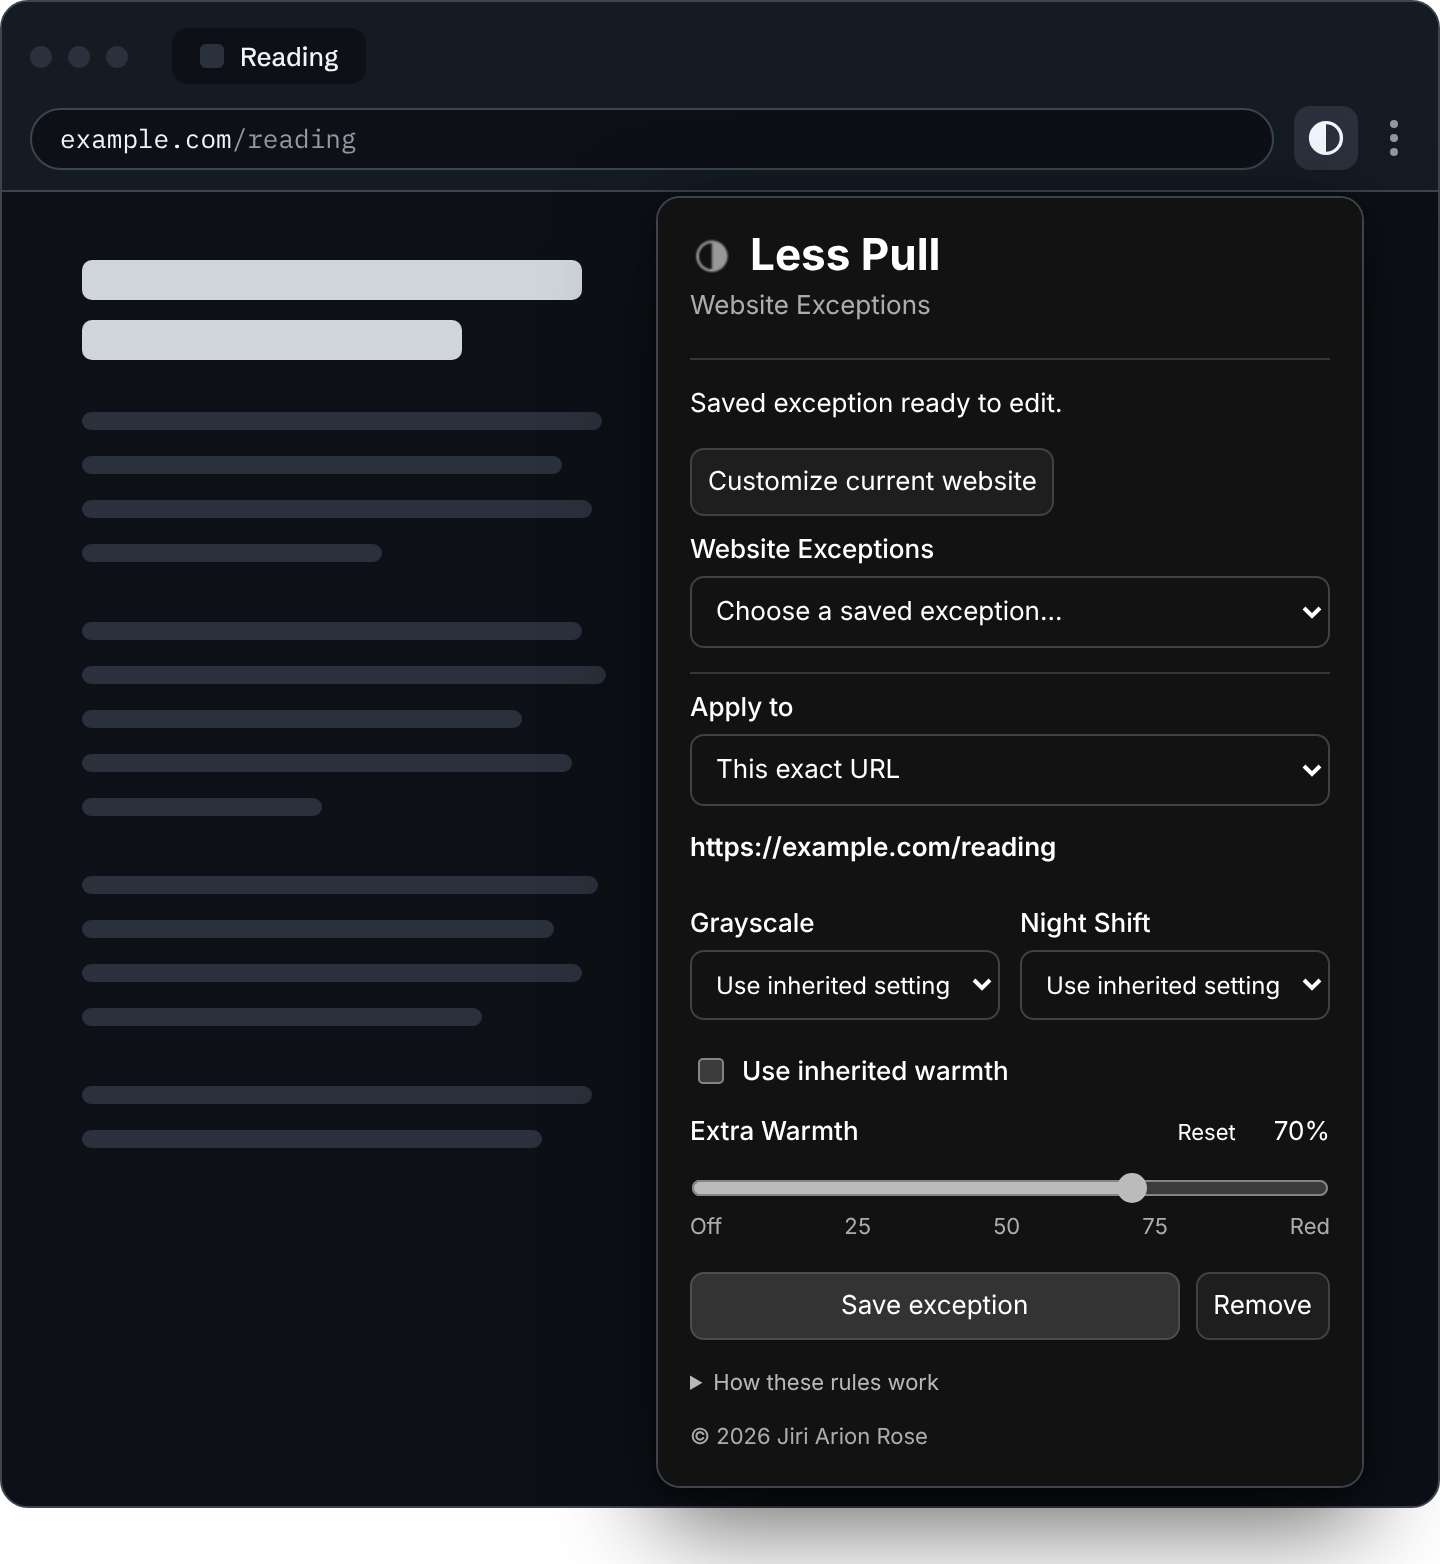
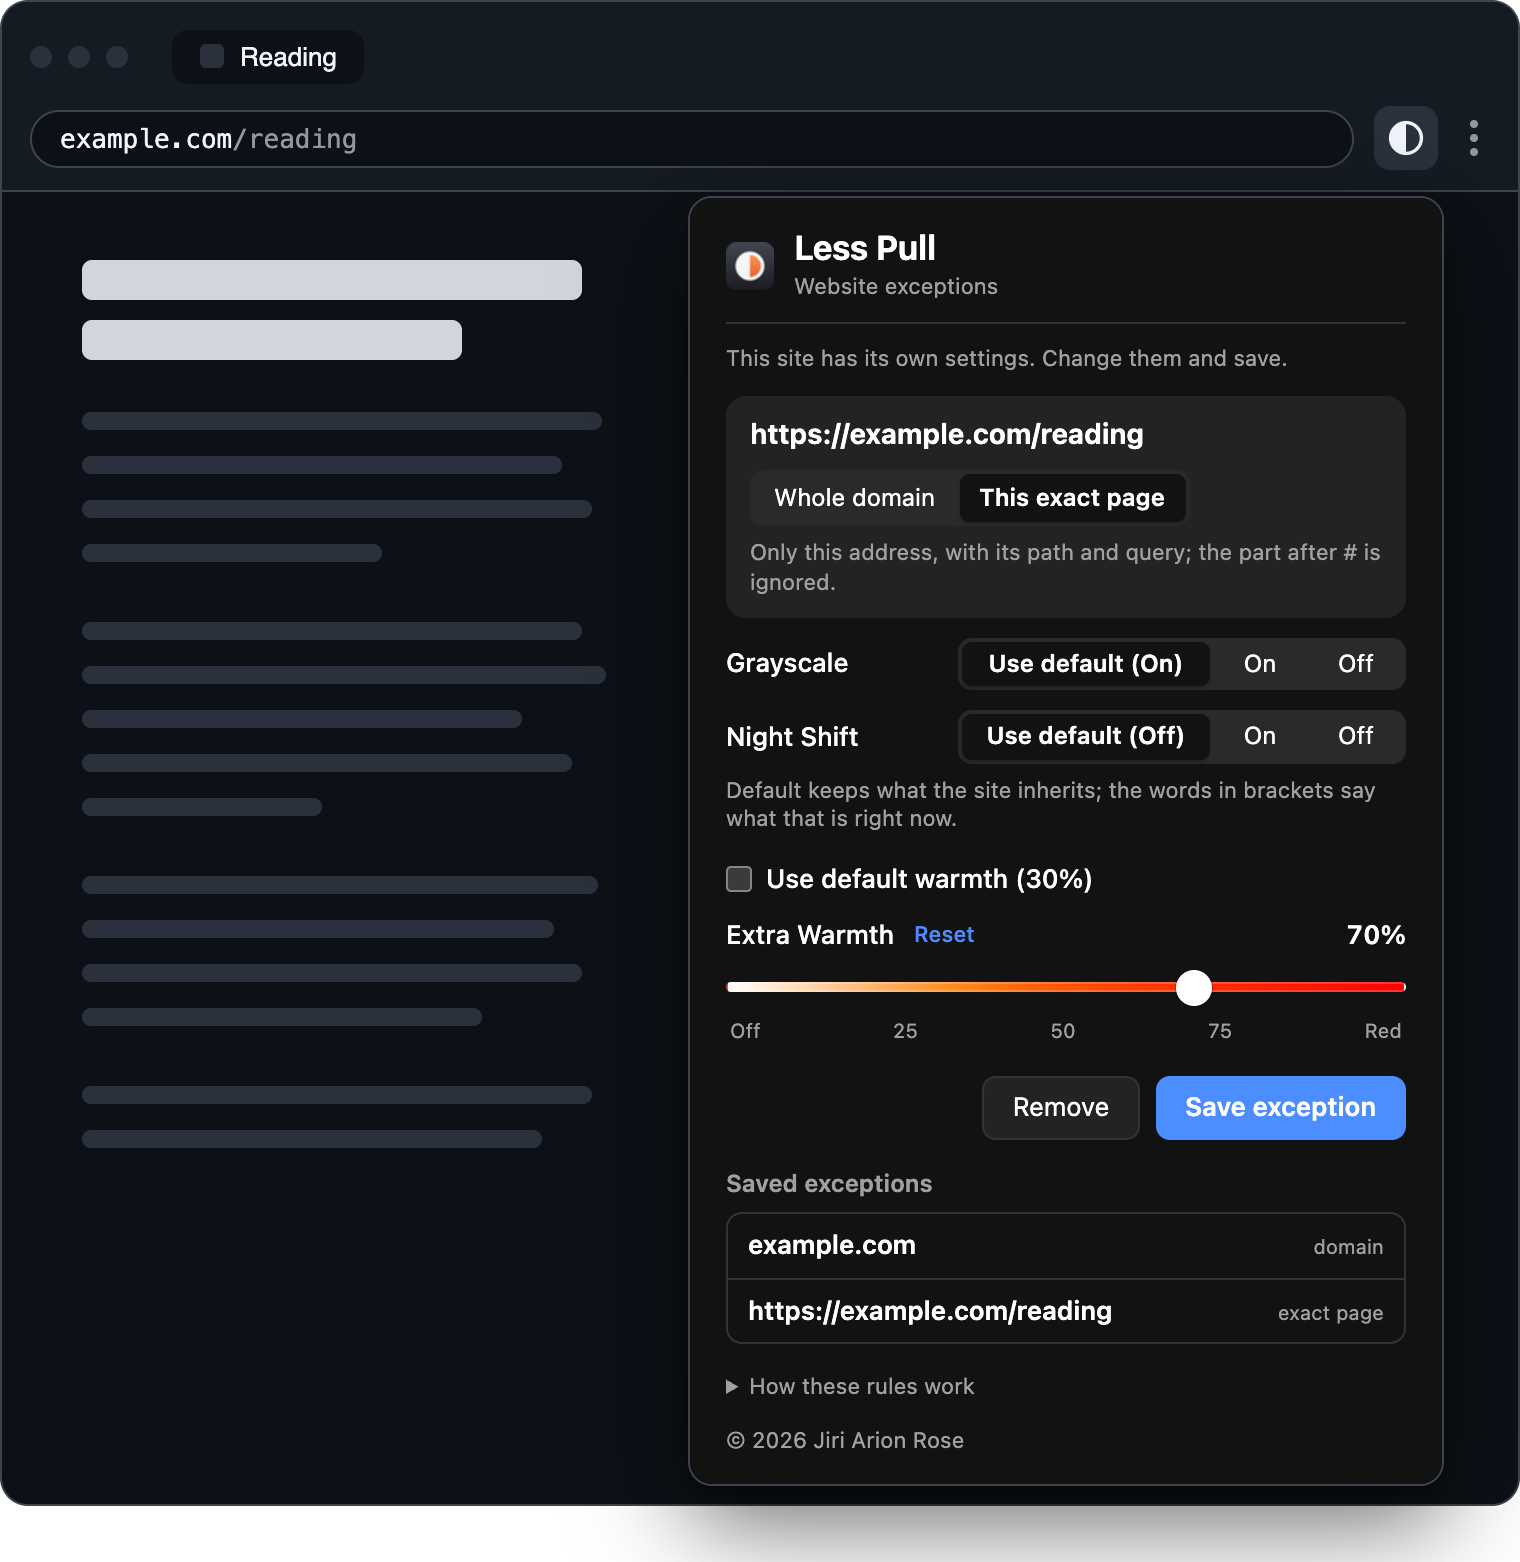
Re-render the popup images for the redesigned popup
popshot.mjs serves the inherited values the popup now shows, drives the new
segment control, and can use a local Chromium (CHROME_PATH) instead of
Playwright's download; the frame is widened for the 340 px popup.

diff --git a/docs/assets/src/frame.html b/docs/assets/src/frame.html
@@ -5,7 +5,7 @@
 :root{--win:#ffffff;--chrome:#eef1f4;--line:#d1d9e0;--ink:#1f2328;--sub:#59636e;--bar:#d8dee4;--pill:#ffffff;--active:#dfe5ea;--shadow:0 18px 50px rgba(31,35,40,.22),0 2px 8px rgba(31,35,40,.12)}
 .dark{--win:#0d1117;--chrome:#151b23;--line:#3d444d;--ink:#f0f6fc;--sub:#9198a1;--bar:#2a313c;--pill:#0d1117;--active:#2a313c;--shadow:0 18px 50px rgba(0,0,0,.6),0 2px 8px rgba(0,0,0,.4)}
 html,body{margin:0;background:transparent}
-#stage{width:720px;height:650px;position:relative;font-family:SG,sans-serif;color:var(--ink)}
+#stage{width:760px;height:650px;position:relative;font-family:SG,sans-serif;color:var(--ink)}
 #win{position:absolute;inset:0 0 28px 0;border:1.5px solid var(--line);border-radius:14px;background:var(--win);overflow:hidden}
 #top{background:var(--chrome);border-bottom:1.5px solid var(--line);padding:12px 14px 10px}
 .tabs{display:flex;align-items:center;gap:8px;height:30px}
@@ -22,8 +22,8 @@ html,body{margin:0;background:transparent}
 #page{padding:34px 40px}
 .h{height:20px;border-radius:5px;background:var(--ink);opacity:.86;margin-bottom:10px}
 .l{height:9px;border-radius:5px;background:var(--bar);margin-top:13px}
-#pop{position:absolute;right:38px;top:98px;width:352px;border-radius:12px;overflow:hidden;box-shadow:var(--shadow);border:1.5px solid var(--line);background:var(--win)}
-#pop iframe{display:block;border:0;width:352px;height:100px}
+#pop{position:absolute;right:38px;top:98px;width:376px;border-radius:12px;overflow:hidden;box-shadow:var(--shadow);border:1.5px solid var(--line);background:var(--win)}
+#pop iframe{display:block;border:0;width:376px;height:100px}
 #note{position:absolute;right:38px;top:84px;width:0;height:0}
 </style>
 <div id="stage"><div id="win"><div id="top">
